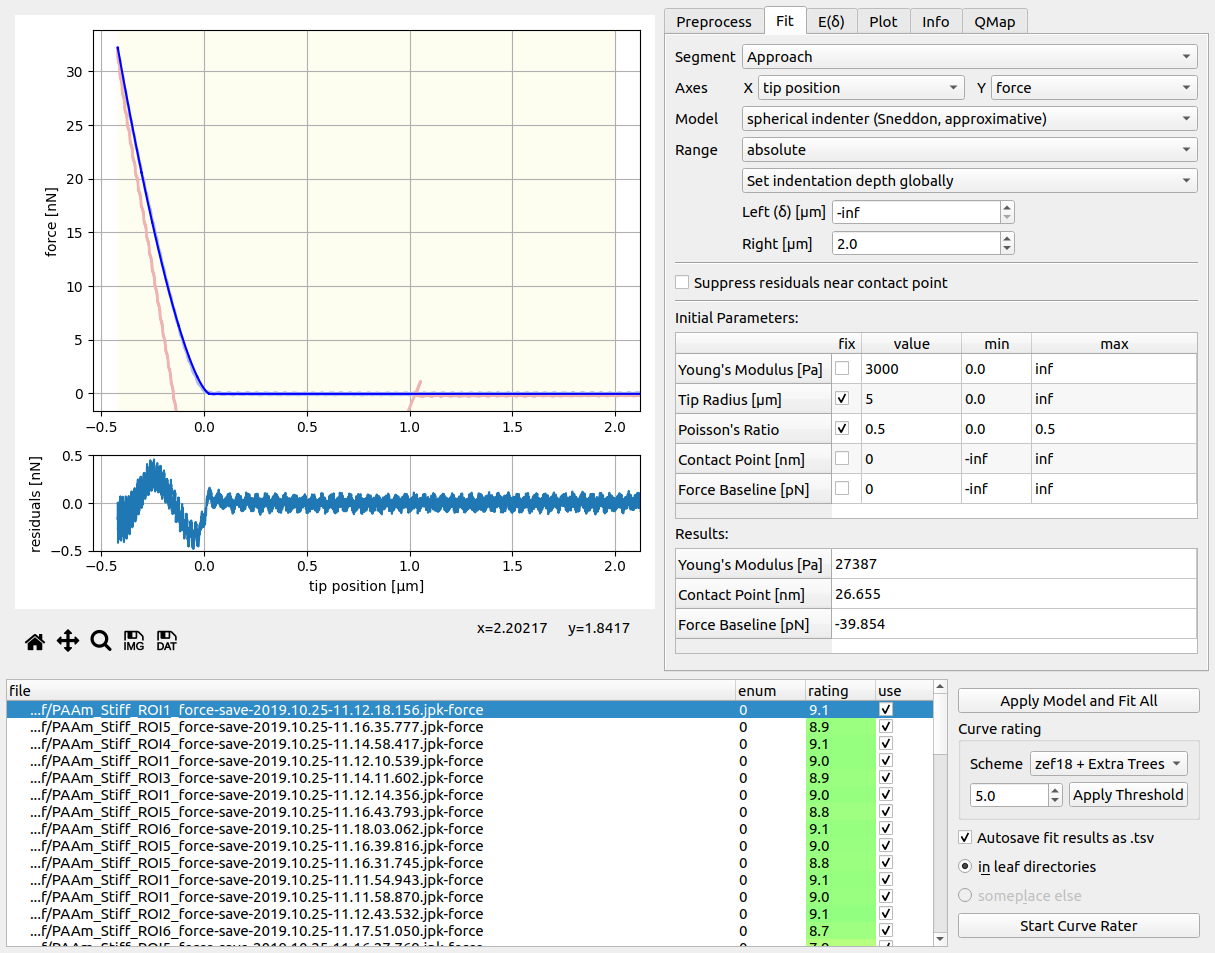
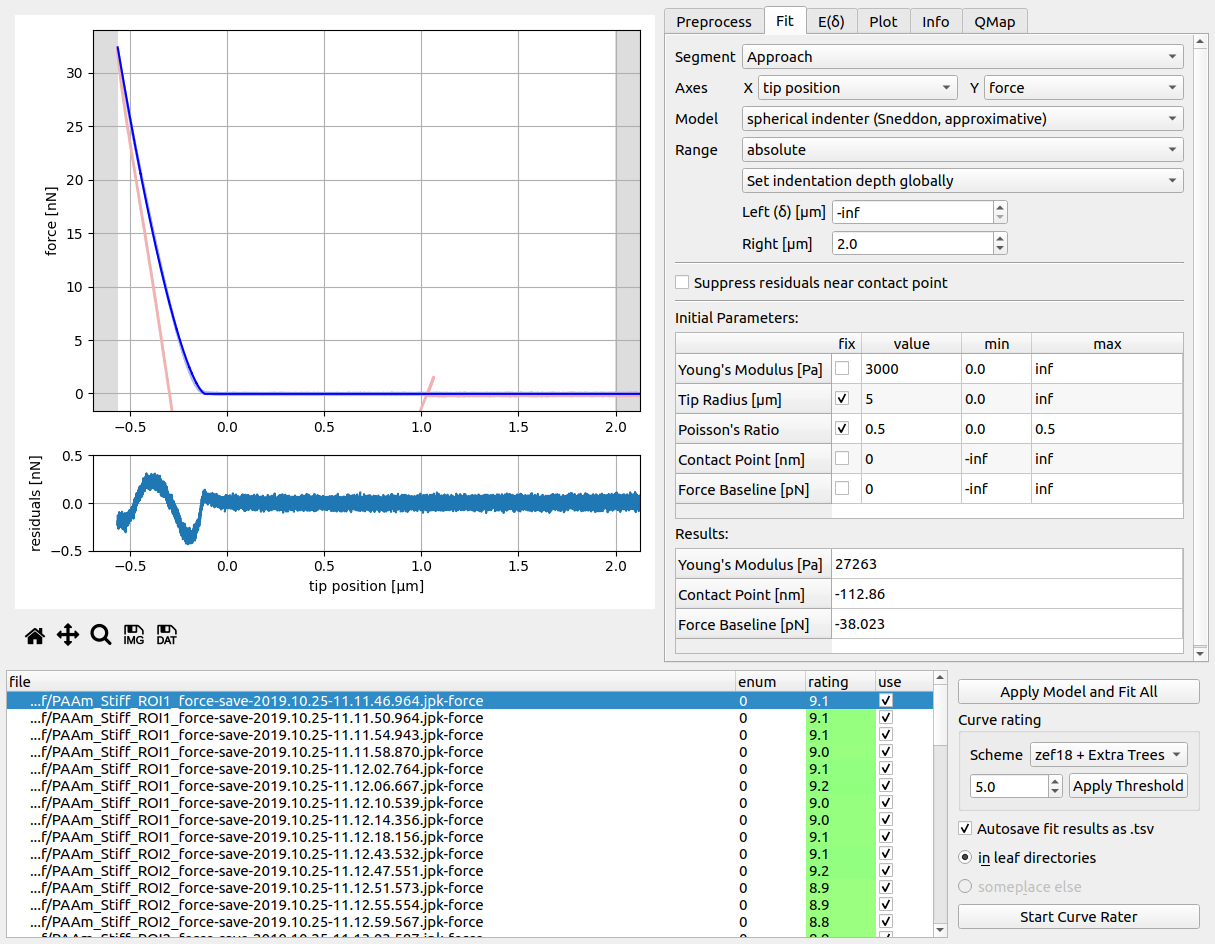
fix: minor visualization issues

diff --git a/pyjibe/fd/mpl_indent.py b/pyjibe/fd/mpl_indent.py
@@ -14,16 +14,17 @@ class MPLIndentation(object):
         """Matplotlib plot for force-indentation data"""
         # Add matplotlib figure
         self.figure = Figure(facecolor="none", tight_layout=True,
-                             frameon={"pad": .0})
+                             frameon=True)
         gs = gridspec.GridSpec(2, 1, height_ratios=[4, 1])
 
         # main axis
         self.axis_main = self.figure.add_subplot(gs[0])
         self.axis_main.grid()
         self.plots = {}
+        self.axis_main.set_facecolor('#DDDDDD')
         self.plots["fit range"] = self.axis_main.axvspan(np.pi,
                                                          np.sqrt(2),
-                                                         facecolor="#FDFDF0",
+                                                         facecolor="#FFFFFF",
                                                          edgecolor="none",
                                                          label="fit range")
         self.plots["approach"] = self.axis_main.plot(range(10),

diff --git a/docs/scrots/make_scrots_qg_import_ts.py b/docs/scrots/make_scrots_qg_import_ts.py
@@ -1,12 +1,13 @@
 """Screenshots for quick guide import ts (not working automatically)"""
 import pathlib
 import sys
+import time
 
 from PyQt5 import QtCore
 from PyQt5.QtWidgets import QApplication
 from pyjibe.head.main import PyJibe
 
-jpkfile = pathlib.Path("figshare_PAAm/PAAm_Compliant_ROI1_force-save-"
+jpkfile = pathlib.Path("PAAm_Compliant_ROI1_force-save-"
                        + "2019.10.25-10.42.02.660.jpk-force")
 
 
@@ -37,7 +38,6 @@ QApplication.processEvents()
 war.grab().save("_qg_import_ts.png")
 
 print("Screenshot must be taken manually")
-import IPython  # noqa: E402
-IPython.embed()
+time.sleep(10)
 
 mw.close()

diff --git a/setup.py b/setup.py
@@ -24,7 +24,7 @@ setup(
     license="GPL v3",
     description=description,
     long_description=open('README.rst').read() if exists('README.rst') else '',
-    install_requires=["afmformats>=0.12.0",
+    install_requires=["afmformats>=0.12.2",
                       "appdirs",
                       "nanite>=1.6.2",
                       "matplotlib>=3",  # NavigationToolbar2QT mod

diff --git a/pyjibe/head/main.py b/pyjibe/head/main.py
@@ -199,7 +199,7 @@ class PyJibe(QtWidgets.QMainWindow):
     def load_data(self, files, retry_open=None, separate_analysis=False):
         # approach-retract data files
         supfiles = []
-        for ff in files:
+        for ff in sorted(files):
             path = pathlib.Path(ff)
             if path.suffix in registry.known_suffixes:
                 supfiles.append(ff)

diff --git a/docs/sec_interface.rst b/docs/sec_interface.rst
@@ -24,7 +24,8 @@ software as a *setpoint* using an active feedback loop.
 The screenshot shows a typical data analysis in PyJibe. A *.jpk-force-map*
 file has been loaded. The plot at the top shows the experimental FD curve
 (approach light blue, retract light red), the model fit (dark blue), and the
-fitting region (shaded yellow). Below are the fit residuals. On the right
+fitting region (white region, bounded by gray background in the upper plot).
+Below are the fit residuals. On the right
 are the main controls (discussed in the sections below). At the bottom
 is the curve list, highlighting which curve is currently shown at the top.
 At the bottom right are the :ref:`curve list controls <sec_ui_fd_curvelist>`.
